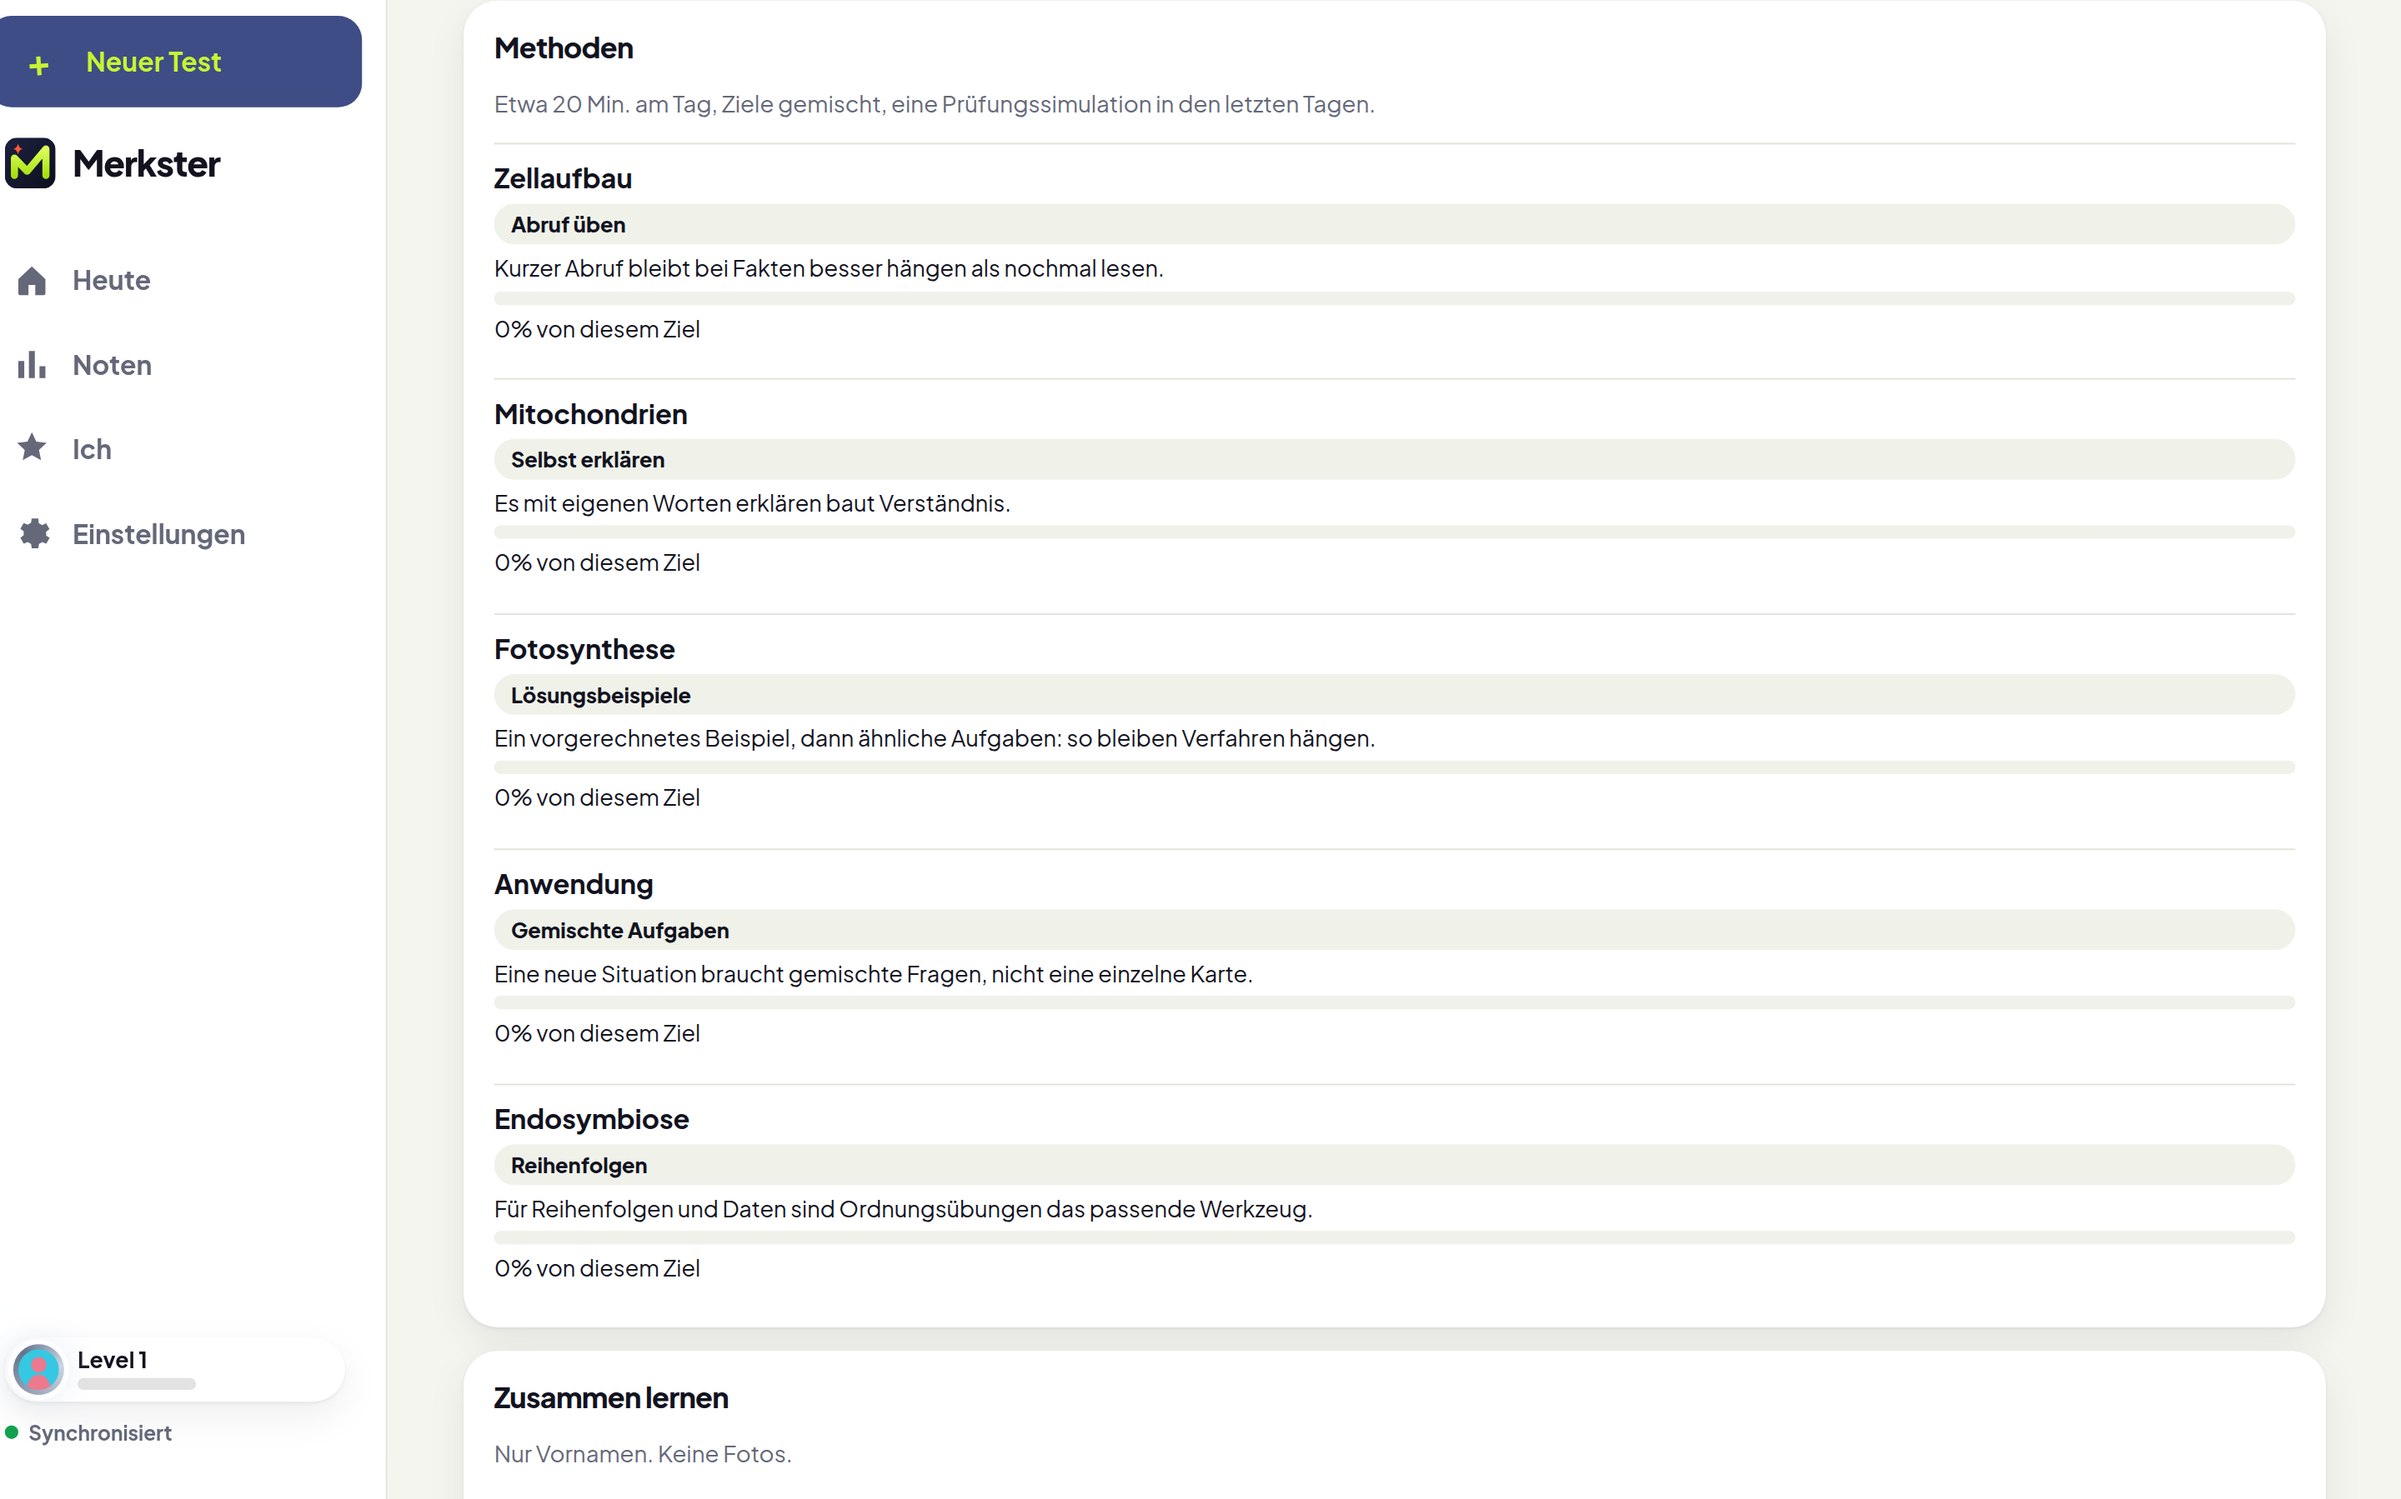
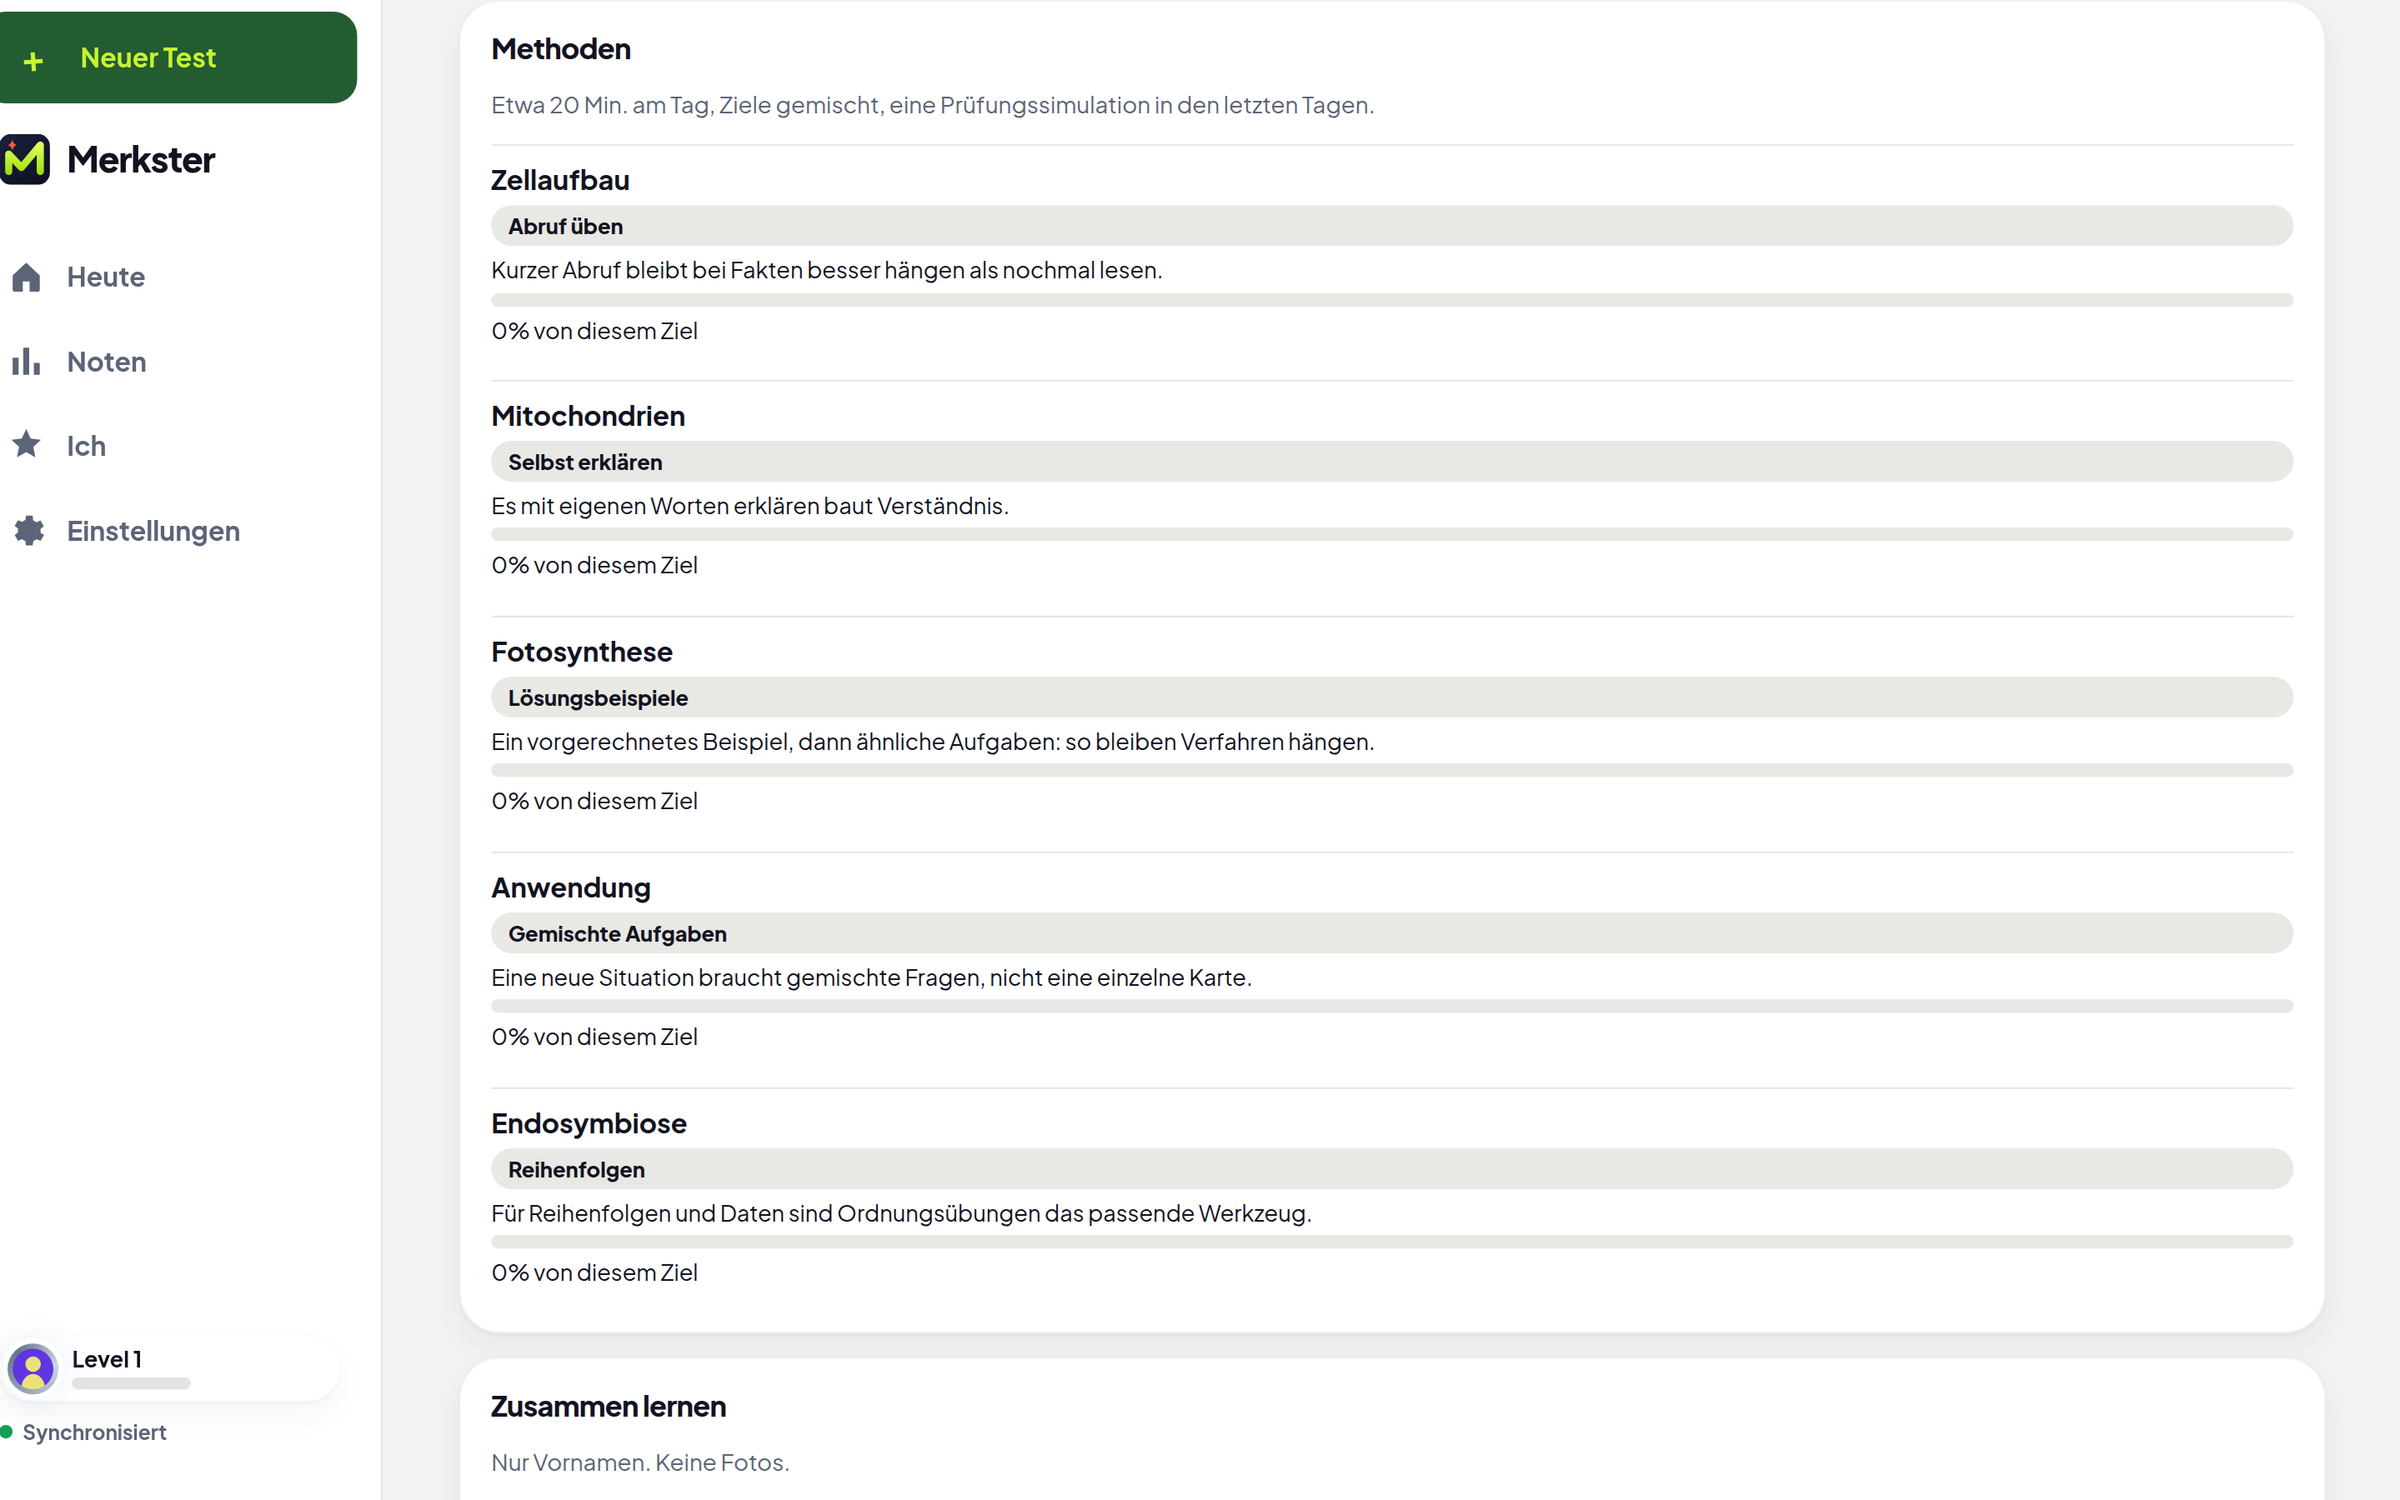
Match light mode to the Brainly page and the Mimo highlight.
The page is warm grey with white cards. The daily review, streak, and challenge use a soft lime wash and a white button. The one dark control is a deep green.

diff --git a/web/src/styles.css b/web/src/styles.css
@@ -4,18 +4,18 @@
 
 :root {
   --ink: #0d0f1e; --ink2: #1c2140; --lime: #c6f432; --lime2: #a6e00f; --coral: #ff5a36; --blue: #3d5afe; --teal: #00c2a8; --sun: #ffd23f;
-  --bg: #f4f5ef; --card: #ffffff; --card2: #f0f2ea; --text: #12131f; --muted: #646879; --line: #e2e5da;
+  --bg: #f2f2f0; --card: #ffffff; --card2: #e8e8e4; --text: #12131f; --muted: #5c6478; --line: #e6e6e2;
   --good: #12a150; --good-bg: #e6f9ec; --bad: #e5484d; --bad-bg: #fde8e8; --warn: #d97706; --warn-bg: #fff4dc;
-  /* One softened emphasis fill. Panels on the light page use --hero / --panel-2, not near-black. */
-  --fill: #3e4d86; --fill-text: var(--lime);
+  /* One deep brand fill for the single primary control and the + button. Content cards stay white. */
+  --fill: #245c32; --fill-text: var(--lime);
   --btn: var(--fill); --btn-text: var(--fill-text); --focus: #3d5afe;
-  --btn-ledge: #2a3564; --lime-ledge: #7eae08; --coral-ledge: #c43818; --opt-ledge: #c3c8b6;
-  --panel-2: #e4ebfb; --panel-chip: rgba(26, 33, 64, .08); --panel-line: rgba(26, 33, 64, .16);
+  --btn-ledge: #184424; --lime-ledge: #7eae08; --coral-ledge: #c43818; --opt-ledge: #d5d5d0;
+  --panel-2: #e8e8e4; --panel-chip: rgba(18, 19, 31, .08); --panel-line: rgba(18, 19, 31, .12);
   --on-hero: #1a2140; --on-hero-muted: #3e4c68; --hero-kicker: #2d6a16;
   --grad: linear-gradient(135deg, #3d5afe 0%, #00c2a8 55%, #a6e00f 100%);
-  --hero: linear-gradient(165deg, #f7fbe8 0%, #e7f3c8 46%, #e6eefc 100%);
-  --shadow: 0 1px 2px rgba(13, 15, 30, .06), 0 8px 24px rgba(13, 15, 30, .07);
-  --r: 20px; --nav-h: 68px; --safe-b: env(safe-area-inset-bottom, 0px);
+  --hero: linear-gradient(180deg, #e7f6b8 0%, #f4fbe3 72%);
+  --shadow: 0 1px 2px rgba(28, 28, 24, .04), 0 8px 20px rgba(28, 28, 24, .04);
+  --r: 24px; --nav-h: 68px; --safe-b: env(safe-area-inset-bottom, 0px);
   color-scheme: light;
 }
 [data-theme='dark'] {
@@ -111,7 +111,7 @@ input:focus, select:focus, textarea:focus { border-color: var(--blue); } [data-t
 textarea { resize: vertical; }
 .toggle { display: flex; align-items: center; gap: 12px; margin: 10px 0; min-height: 44px; cursor: pointer; font-weight: 700; }
 .toggle input { width: 28px; height: 28px; accent-color: var(--blue); }
-.card { background: var(--card); border-radius: var(--r); padding: 18px; box-shadow: var(--shadow); margin: 14px 0; }
+.card { background: var(--card); border-radius: var(--r); padding: 18px; box-shadow: var(--shadow); border: 1px solid color-mix(in srgb, var(--ink) 6%, transparent); margin: 14px 0; }
 .sec-head { display: flex; justify-content: space-between; align-items: center; margin: 18px 0 8px; } .sec-head h3 { margin: 0; }
 .sec-title { margin: 26px 0 10px; }
 .big-num { font-size: 2rem; font-weight: 800; letter-spacing: -.03em; }
@@ -173,10 +173,11 @@ textarea { resize: vertical; }
 /* ---------- home ---------- */
 .home-top { display: flex; justify-content: space-between; align-items: flex-end; gap: 10px; margin-bottom: 16px; }
 .home-top-r { align-items: center; gap: 10px; }
-.hero-card { position: relative; overflow: hidden; background: var(--hero); color: var(--on-hero); border-radius: 28px; padding: 24px; box-shadow: 0 10px 28px rgba(26, 33, 64, .08); }
+.hero-card { position: relative; overflow: hidden; background: var(--hero); color: var(--on-hero); border-radius: var(--r); padding: 24px; box-shadow: var(--shadow); border: 0; }
 .hero-card::after { content: ''; position: absolute; right: -40px; top: -40px; width: 180px; height: 180px; background: url(/icons/favicon.svg) center/contain no-repeat; opacity: .07; transform: rotate(14deg); }
 .hero-card h2 { font-size: 1.7rem; margin: 12px 0 6px; } .hero-sub { color: var(--on-hero-muted); margin: 0 0 14px; }
-.hero-card .btn.start { width: 100%; }
+.hero-card .btn.start { width: 100%; background: #fff; color: var(--ink); box-shadow: 0 1px 2px rgba(28, 28, 24, .05), 0 8px 18px rgba(28, 28, 24, .06); }
+[data-theme='dark'] .hero-card .btn.start { background: var(--lime); color: var(--ink); box-shadow: 0 4px 0 var(--lime-ledge); }
 .hero-top { display: flex; justify-content: space-between; align-items: center; } .hero-k { text-transform: uppercase; font-size: .75rem; letter-spacing: .12em; font-weight: 800; color: var(--hero-kicker); }
 .streak { background: var(--warn-bg); color: var(--warn); padding: 4px 10px; border-radius: 99px; font-weight: 800; }
 .hero-note { background: var(--panel-chip); border-radius: 14px; padding: 10px 12px; margin: 0 0 12px; font-size: .9rem; }
@@ -184,7 +185,7 @@ textarea { resize: vertical; }
 .empty-art { position: relative; width: 140px; height: 120px; margin: 0 auto 14px; display: grid; place-items: center; }
 .float { position: absolute; font-size: 1.8rem; animation: float 3s ease-in-out infinite; } .f1 { left: -10px; top: 0; } .f2 { right: -14px; top: 20px; animation-delay: .6s; } .f3 { left: 10px; bottom: -6px; animation-delay: 1.2s; }
 .test-list { display: grid; gap: 10px; }
-.test-card { display: grid; grid-template-columns: 44px 1fr auto auto; align-items: center; gap: 12px; text-align: left; background: var(--card); border: 0; border-radius: 20px; padding: 12px 14px; box-shadow: var(--shadow); cursor: pointer; transition: transform .15s; }
+.test-card { display: grid; grid-template-columns: 44px 1fr auto auto; align-items: center; gap: 12px; text-align: left; background: var(--card); border: 1px solid color-mix(in srgb, var(--ink) 6%, transparent); border-radius: var(--r); padding: 12px 14px; box-shadow: var(--shadow); cursor: pointer; transition: transform .15s; }
 .test-card:hover { transform: translateY(-2px); }
 .tc-icon { font-size: 1.6rem; width: 44px; height: 44px; display: grid; place-items: center; background: var(--card2); border-radius: 14px; flex: none; }
 .tc-main { display: grid; gap: 2px; min-width: 0; } .tc-main b { overflow: hidden; text-overflow: ellipsis; white-space: nowrap; } .tc-sub { font-size: .82rem; color: var(--muted); } .tc-sub em { color: var(--blue); font-style: normal; font-weight: 700; } [data-theme='dark'] .tc-sub em { color: var(--lime); }
@@ -317,10 +318,10 @@ textarea { resize: vertical; }
 .done-next { text-align: center; font-weight: 700; margin: 12px 0; } .mini-test { display: flex; justify-content: space-between; align-items: center; background: var(--card); border-radius: 14px; padding: 8px 12px; }
 
 /* ---------- profile (me) ---------- */
-.me-hero { position: relative; overflow: hidden; color: var(--on-hero); border-radius: 28px; padding: 22px; background: radial-gradient(110% 90% at 100% 0%, color-mix(in srgb, var(--c1) 28%, transparent), transparent 62%), radial-gradient(80% 70% at 0% 100%, color-mix(in srgb, var(--c2) 18%, transparent), transparent 70%), var(--hero); box-shadow: 0 10px 28px rgba(26, 33, 64, .08); }
+.me-hero { position: relative; overflow: hidden; color: var(--text); border-radius: var(--r); padding: 22px; background: var(--card); box-shadow: var(--shadow); border: 1px solid color-mix(in srgb, var(--ink) 6%, transparent); }
 .me-top { display: flex; gap: 14px; align-items: center; } .me-top > div { flex: 1; } .me-top h1 { margin: 0; font-size: 1.6rem; } .me-rank { margin: 2px 0 0; font-weight: 750; color: var(--on-hero); display: flex; align-items: center; gap: 6px; }
 .lvl-row { display: flex; justify-content: space-between; align-items: baseline; margin-top: 18px; } .lvl-num { font-size: 2.2rem; font-weight: 900; }
-.me-hero .xpbar i { background: linear-gradient(90deg, var(--c1), var(--glow)); } .me-hero .small { color: var(--on-hero-muted); }
+.me-hero .xpbar i { background: linear-gradient(90deg, var(--c1), var(--glow)); } .me-hero .small { color: var(--muted); }
 .me-grid { display: grid; gap: 0 14px; } @media (min-width: 700px) { .me-grid { grid-template-columns: 1fr 1fr; } }
 .streak-card { display: grid; gap: 12px; } .streak-card p { margin: 4px 0; }
 .streak-head { display: flex; gap: 12px; align-items: flex-start; }
@@ -342,7 +343,7 @@ textarea { resize: vertical; }
 .tile-stat { background: var(--card); border: 2px solid var(--line); border-radius: 18px; padding: 14px; box-shadow: var(--shadow); display: grid; gap: 2px; } .tile-stat span { font-size: .8rem; color: var(--muted); font-weight: 700; } .tile-stat b { font-size: 1.8rem; font-weight: 850; color: var(--text); } .tile-stat small { color: var(--muted); font-size: .78rem; overflow: hidden; text-overflow: ellipsis; white-space: nowrap; }
 .compare-board { display: grid; grid-template-columns: 1fr 1fr; gap: 10px; margin: 12px 0; }
 .compare-col { border-radius: 22px; padding: 16px; display: grid; gap: 6px; align-content: start; min-height: 156px; }
-.compare-col.you { background: var(--hero); color: var(--on-hero); }
+.compare-col.you { background: var(--card); color: var(--text); border: 1px solid color-mix(in srgb, var(--ink) 6%, transparent); }
 .compare-col.you span, .compare-col.them span { font-size: .8rem; font-weight: 800; letter-spacing: .02em; }
 .compare-col.you span { color: var(--hero-kicker); }
 .compare-col.them { background: var(--card); color: var(--ink); border: 2px solid var(--line); }
@@ -546,7 +547,7 @@ textarea { resize: vertical; }
 .merki-say-inline { margin: 4px 0 10px; }
 .merki-say-inline .merki-bubble { font-size: .92rem; }
 .merki-bubble { margin: 0; background: var(--card); color: var(--text); border: 2px solid var(--line); border-radius: 18px 18px 18px 6px; padding: 10px 12px; font-weight: 700; box-shadow: var(--shadow); max-width: 36rem; }
-.merki-nudge { background: var(--hero); color: var(--on-hero); border-radius: 24px; padding: 14px 14px 14px 10px; align-items: center; }
+.merki-nudge { background: transparent; color: var(--text); border-radius: var(--r); padding: 4px 0; align-items: center; }
 .merki-nudge .merki-bubble { background: transparent; color: inherit; border: 0; box-shadow: none; padding: 0 4px 0 6px; }
 .merki-moment { display: grid; justify-items: center; gap: 12px; text-align: center; }
 .merki-moment .merki-bubble { border-radius: 22px; }
@@ -565,7 +566,10 @@ textarea { resize: vertical; }
 .explain-box { margin: 0 0 10px; }
 .explain-box .chips { display: grid; grid-template-columns: 1fr 1fr; }
 .explain-box .pill { justify-content: center; }
-.offline-banner { margin: 8px 0 12px; padding: 12px 14px; border-radius: 16px; background: var(--panel-2); color: var(--on-hero); font-weight: 800; }
+.offline-banner { margin: 8px 0 12px; padding: 12px 14px; border-radius: var(--r); background: var(--card); color: var(--text); border: 1px solid var(--line); font-weight: 800; }
+.streak-card { background: var(--hero); color: var(--on-hero); border: 0; }
+[data-testid="challenge"] { background: var(--hero); color: var(--on-hero); border-radius: 20px; padding: 14px; margin-top: 8px; }
+.btn[data-testid="mock-open"], .btn[data-testid="mock-start"] { background: var(--hero); color: var(--on-hero); border: 0; }
 .joker-note { margin: 0; padding: 12px 14px; border-radius: 14px; background: var(--card2); color: var(--text); font-weight: 650; width: 100%; box-sizing: border-box; }
 .challenge-bar { height: 14px; }
 .explain-text { white-space: pre-wrap; font-weight: 650; }
